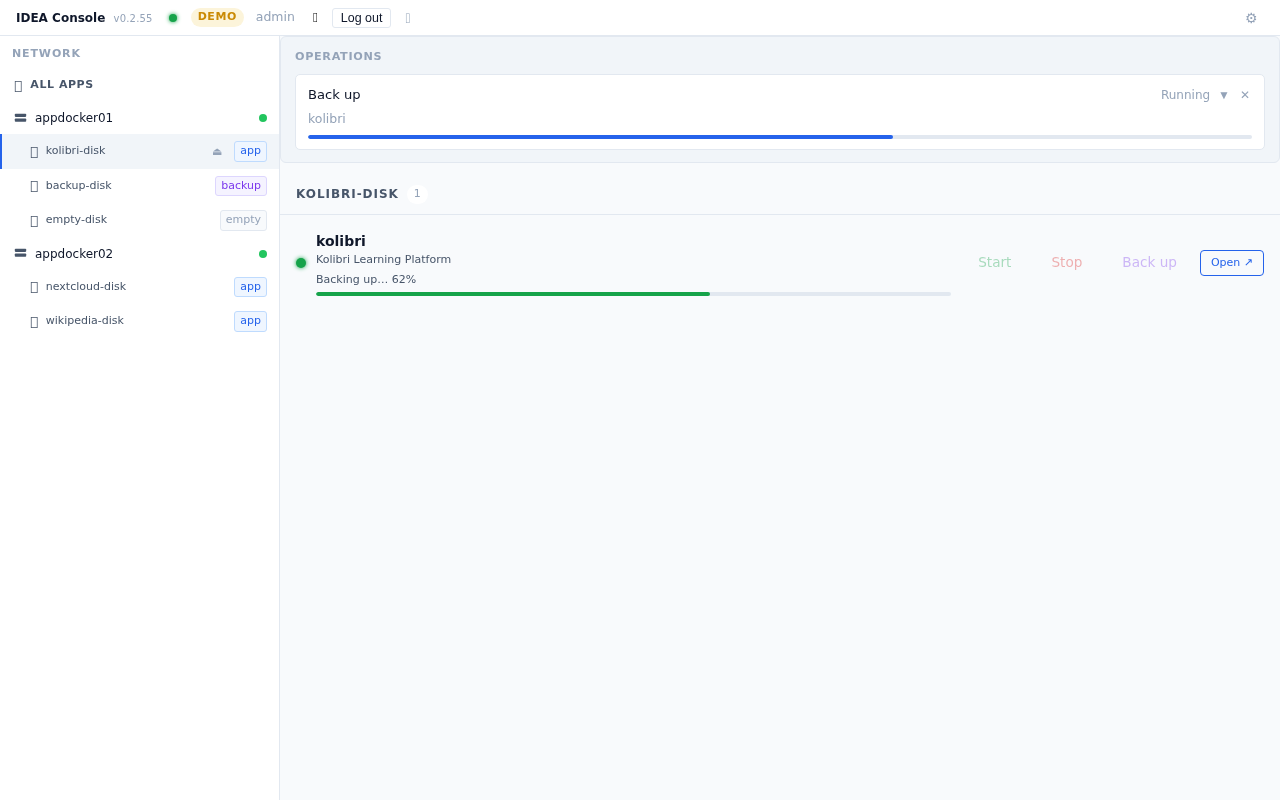
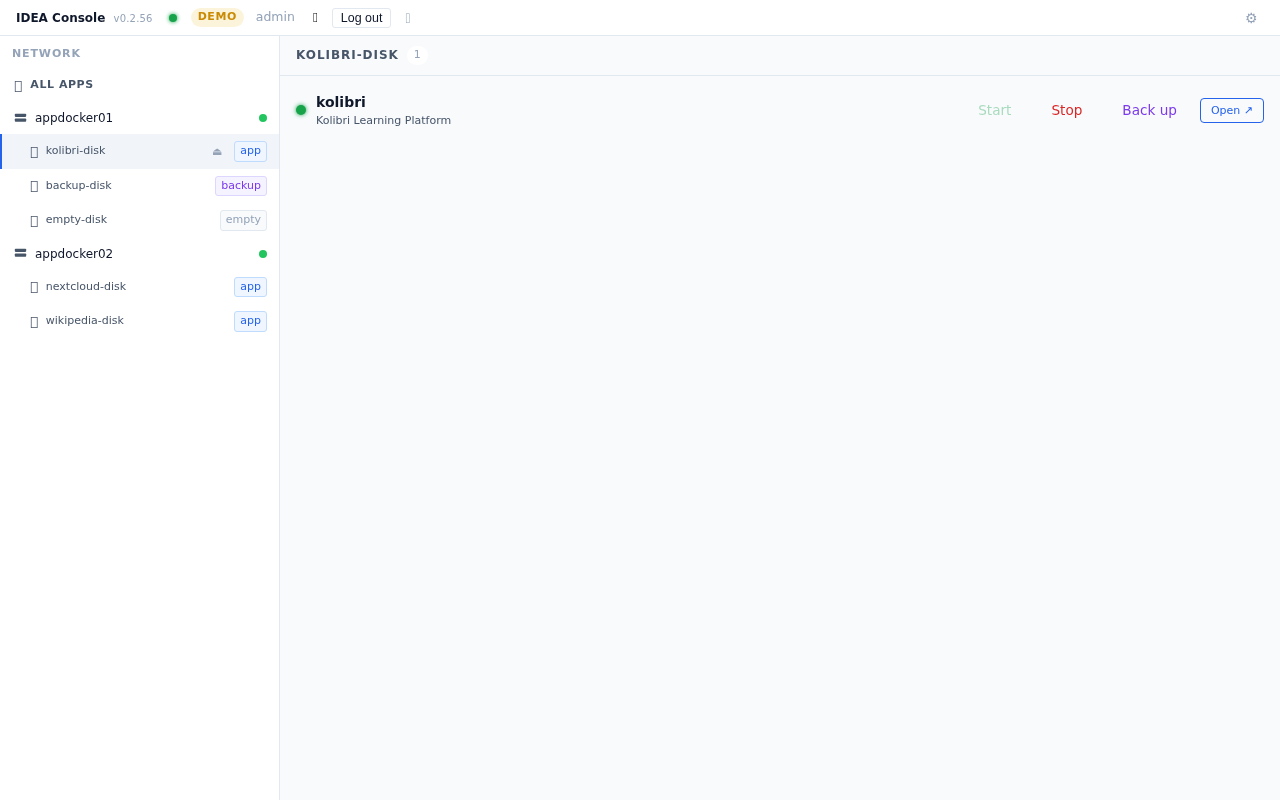
fix: remove demo running op from mock store, add History panel screenshot, clean up stale command-history screenshots (v0.2.56)

diff --git a/scripts/screenshot-screens.ts b/scripts/screenshot-screens.ts
@@ -150,19 +150,24 @@ async function main() {
       console.log('⚠ No operation-progress element — skipping S5-operation-progress');
     }
 
-    // S5-command-history: Command history panel (collapsed and expanded)
-    const cmdHistory = p.locator('.command-history');
-    if (await cmdHistory.count() > 0) {
-      await snap(p, 'S5-command-history');
-      // Expand the first trace row
-      const firstRow = p.locator('.command-history__row').first();
+    // S5-history-panel: History panel (opened via 📋 status bar button)
+    const historyBtn = p.locator('.status-bar__history-btn');
+    if (await historyBtn.count() > 0) {
+      await historyBtn.click();
+      await p.waitForTimeout(400);
+      await snap(p, 'S5-history-panel');
+      // Expand the first trace row if present
+      const firstRow = p.locator('.history-panel .command-history__row').first();
       if (await firstRow.count() > 0) {
         await firstRow.click();
         await p.waitForTimeout(300);
-        await snap(p, 'S5-command-history-expanded');
+        await snap(p, 'S5-history-panel-expanded');
       }
+      // Close the panel again
+      await historyBtn.click();
+      await p.waitForTimeout(300);
     } else {
-      console.log('⚠ No command-history element — skipping S5-command-history');
+      console.log('⚠ No history button — skipping S5-history-panel');
     }
 
     // Mobile screenshots — shrink viewport to iPhone 14 size

diff --git a/src/mock/mockStore.ts b/src/mock/mockStore.ts
@@ -340,24 +340,7 @@ export const MOCK_STORE: Store = {
       created: 0,
     },
   },
-  operationDB: {
-    'op-demo-001': {
-      id: 'op-demo-001',
-      kind: 'backupApp' as const,
-      args: { instanceName: 'kolibri', targetDiskName: 'backup-disk' },
-      cause: 'console-command' as const,
-      subject: { type: 'instance' as const, id: INST_KOLIBRI_ID },
-      engineId: ENGINE_1_ID,
-      status: 'Running' as const,
-      progressPercent: 62,
-      currentStep: 2,
-      totalSteps: 3,
-      stepLabel: 'Running backup…',
-      startedAt: Date.now() - 45 * 1000,
-      completedAt: null,
-      error: null,
-    },
-  },
+  operationDB: {},
 };
 
 // ---------------------------------------------------------------------------

diff --git a/MEMORY.md b/MEMORY.md
@@ -32,14 +32,13 @@
 - **Always give the full URL after every change:** `http://100.115.60.6:5173` (Tailscale) or `http://192.168.0.231:5173` (LAN)
 
 ## What to do at next session start
-- main is up to date as of PR #67 (v0.2.39)
-  - PR #60: drag-drop highlight + engine name in modal
-  - PR #61: show log on Failed/Done operation cards
-  - PR #62: mobile ⋯ action sheet (Move/Copy), eject always visible on Network tab
-  - CommandHistory + LogLines components
-  - OperationProgress shows live log for running ops
-  - Mock store has running demo operation for screenshots
-  - UI-DESIGN.md updated with 3 new screenshots
+- main is up to date as of PR #78 (v0.2.54)
+  - PR #73: auto-clear Starting… spinner after 15s timeout
+  - PR #74: live command log in expanded panel
+  - PR #75: inline log detail (latest line beneath Starting/Stopping)
+  - PR #76: strip ANSI codes from log output, clear pending on trace error
+  - PR #78: integrate engine PR #93 — startApp/stopApp in operationDB with cause/subject/stepLabel
+- Clean working tree, on main branch
 
 ## Autonomous testing plan (to implement)
 - Write Playwright e2e tests that actually run the UI

diff --git a/design/UI-DESIGN.md b/design/UI-DESIGN.md
@@ -223,6 +223,12 @@ Each `InstanceRow` shows:
 
 The history is **not** always visible — it is opt-in via the status bar button, keeping the main app list uncluttered.
 
+![S5 History Panel](screenshots/S5-history-panel.png)
+
+*Expanded trace (click a row to reveal log lines):*
+
+![S5 History Panel Expanded](screenshots/S5-history-panel-expanded.png)
+
 **Files:** `src/components/HistoryPanel.tsx`, `src/components/CommandHistory.tsx`, `src/components/LogLines.tsx`, `src/store/commandLog.ts`, `src/types/commandLog.ts`
 
 ---
